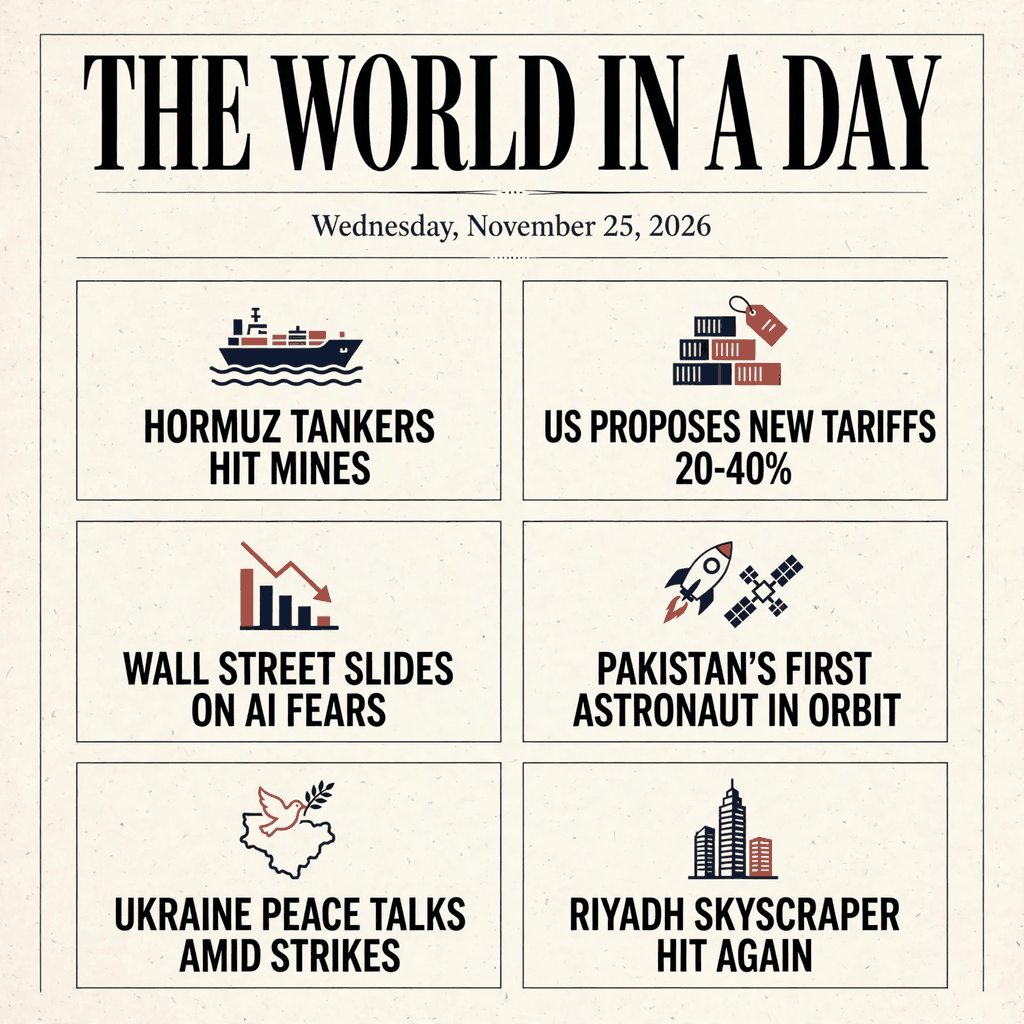
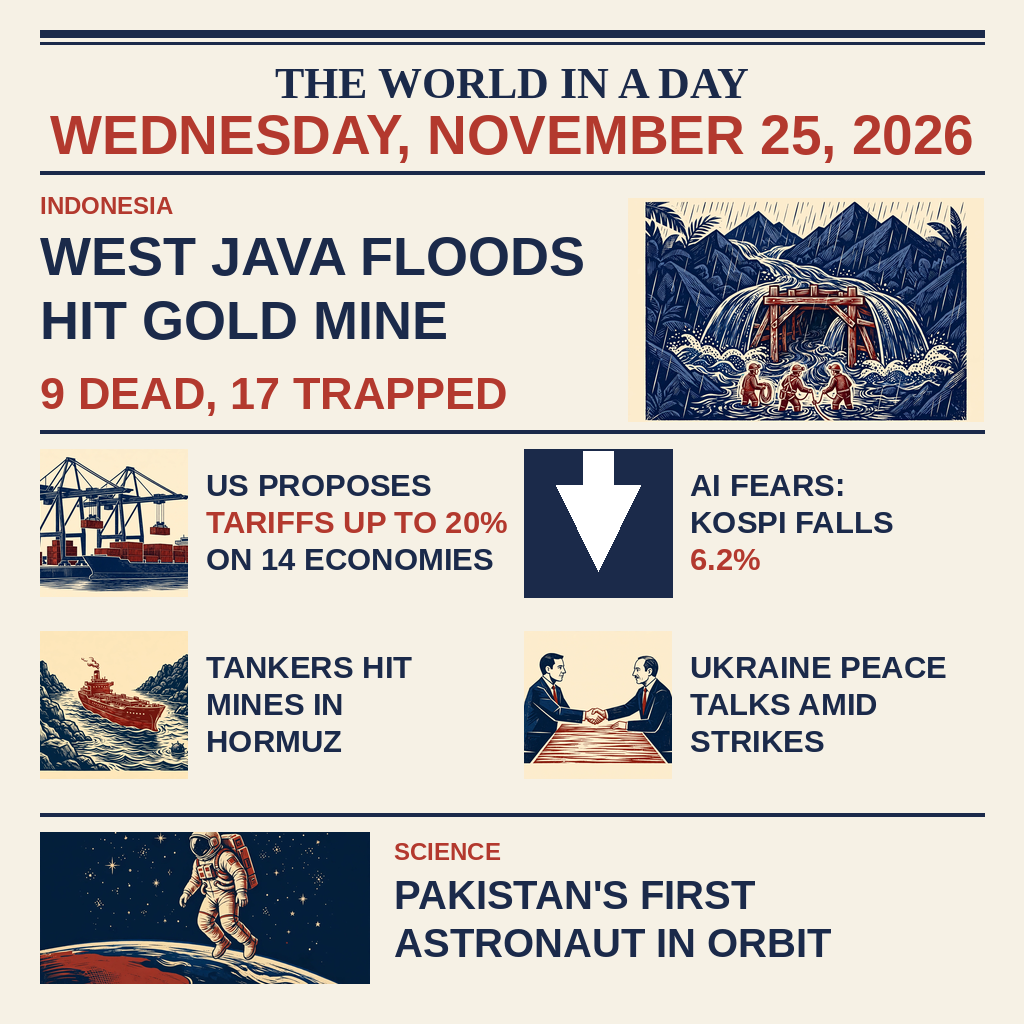
v2: typeset front page led by West Java mine flood (astra-reviewed)

diff --git a/build_entry.py b/build_entry.py
@@ -1,0 +1,156 @@
+#!/usr/bin/env python3
+"""Build the v2 entry image for make.fun news-image-20261125.
+
+The artwork (assets/*.webp) was generated without any text; every word
+on the page is typeset here with PIL so the headlines are perfectly
+legible for the AI judge, which reads only the image. Layout follows
+the reviewed spec: the date is the largest element, the West Java mine
+disaster is the lead story, four world stories sit in a 2x2 grid, and
+the Pakistan astronaut story closes the page.
+
+Run: python3 build_entry.py  ->  writes entry.png (1024x1024)
+"""
+import os
+
+from PIL import Image, ImageDraw, ImageFont
+
+HERE = os.path.dirname(os.path.abspath(__file__))
+ASSETS = os.path.join(HERE, "assets")
+W = H = 1024
+MARGIN = 40
+CW = W - 2 * MARGIN  # content width
+
+CREAM = (246, 241, 229)
+NAVY = (27, 42, 74)
+VERMILLION = (179, 57, 46)
+WHITE = (255, 255, 255)
+
+SANS_BOLD = "/usr/share/fonts/truetype/liberation/LiberationSans-Bold.ttf"
+SANS = "/usr/share/fonts/truetype/liberation/LiberationSans-Regular.ttf"
+SERIF_BOLD = "/usr/share/fonts/truetype/liberation/LiberationSerif-Bold.ttf"
+
+
+def font(path, size):
+    return ImageFont.truetype(path, size)
+
+
+def fit_cover(img, box_w, box_h):
+    """Resize + center-crop img to exactly box_w x box_h."""
+    scale = max(box_w / img.width, box_h / img.height)
+    img = img.resize((round(img.width * scale), round(img.height * scale)),
+                     Image.LANCZOS)
+    x = (img.width - box_w) // 2
+    y = (img.height - box_h) // 2
+    return img.crop((x, y, x + box_w, y + box_h))
+
+
+def draw_lines(draw, xy, lines, fnt, fill, leading):
+    x, y = xy
+    for line in lines:
+        draw.text((x, y), line, font=fnt, fill=fill)
+        y += leading
+    return y
+
+
+def centered(draw, y, text, fnt, fill):
+    w = draw.textlength(text, font=fnt)
+    draw.text(((W - w) / 2, y), text, font=fnt, fill=fill)
+    return y + fnt.size
+
+
+def rule(draw, y, thick=3):
+    draw.rectangle([MARGIN, y, W - MARGIN, y + thick], fill=NAVY)
+    return y + thick
+
+
+def cell(draw, page, x, y, w, h, img_name, headline, accent_last=False,
+         accent_idx=None):
+    """One grid story: thumbnail left, headline right."""
+    thumb = 148
+    if img_name:
+        img = Image.open(os.path.join(ASSETS, img_name)).convert("RGB")
+        page.paste(fit_cover(img, thumb, thumb), (x, y))
+    else:
+        # KOSPI cell: a bold vermillion down arrow instead of a photo.
+        draw.rectangle([x, y, x + thumb, y + thumb], fill=NAVY)
+        cx, cy = x + thumb // 2, y + thumb // 2
+        draw.polygon([(cx - 42, cy - 38), (cx + 42, cy - 38), (cx, cy + 48)],
+                     fill=WHITE)
+        draw.rectangle([cx - 15, cy - 72, cx + 15, cy - 38], fill=WHITE)
+    tx = x + thumb + 18
+    fnt = font(SANS_BOLD, 31)
+    lines = headline.split("\n")
+    ty = y + (thumb - len(lines) * 37) // 2
+    for i, line in enumerate(lines):
+        fill = VERMILLION if (i == accent_idx or
+                              (accent_last and i == len(lines) - 1)) else NAVY
+        draw.text((tx, ty), line, font=fnt, fill=fill)
+        ty += 37
+
+
+def main():
+    page = Image.new("RGB", (W, H), CREAM)
+    draw = ImageDraw.Draw(page)
+
+    # --- masthead ---------------------------------------------------
+    y = rule(draw, 30, 7)
+    y = rule(draw, y + 5, 2)
+    y = centered(draw, y + 14, "THE WORLD IN A DAY", font(SERIF_BOLD, 44), NAVY)
+    y = centered(draw, y + 2, "WEDNESDAY, NOVEMBER 25, 2026",
+                 font(SANS_BOLD, 55), VERMILLION)
+    y = rule(draw, y + 12, 3)
+
+    # --- lead story: West Java mine ---------------------------------
+    top = y + 18
+    draw.text((MARGIN, top), "INDONESIA", font=font(SANS_BOLD, 24),
+              fill=VERMILLION)
+    draw_lines(draw, (MARGIN, top + 34),
+               ["WEST JAVA FLOODS", "HIT GOLD MINE"],
+               font(SANS_BOLD, 54), NAVY, 64)
+    draw.text((MARGIN, top + 176), "9 DEAD, 17 TRAPPED",
+              font=font(SANS_BOLD, 45), fill=VERMILLION)
+    mine = Image.open(os.path.join(
+        ASSETS, "media-generation-spot-mine-0-86ef10c0-6ec2-41eb-b821-a27f89ef56a1.webp")).convert("RGB")
+    page.paste(fit_cover(mine, 356, 224), (W - MARGIN - 356, top + 6))
+    draw = ImageDraw.Draw(page)
+    y = rule(draw, top + 238, 3)
+
+    # --- 2x2 grid -----------------------------------------------------
+    gtop = y + 16
+    colw = (CW - 24) // 2
+    rowh = 168
+    cell(draw, page, MARGIN, gtop, colw, rowh,
+         "media-generation-spot-containers-0-efd4236c-3aab-44bb-ab6e-8f34160167f8.webp",
+         "US PROPOSES\nTARIFFS UP TO 20%\nON 14 ECONOMIES", accent_idx=1)
+    cell(draw, page, MARGIN + colw + 24, gtop, colw, rowh,
+         None, "AI FEARS:\nKOSPI FALLS\n6.2%", accent_last=True)
+    draw = ImageDraw.Draw(page)
+    cell(draw, page, MARGIN, gtop + rowh + 14, colw, rowh,
+         "media-generation-spot-tanker-0-8661d879-087e-4d98-82e4-af43f0657de0.webp",
+         "TANKERS HIT\nMINES IN\nHORMUZ")
+    cell(draw, page, MARGIN + colw + 24, gtop + rowh + 14, colw, rowh,
+         "media-generation-spot-talks-0-961577bd-f3f9-44c9-a345-d0a33bca3806.webp",
+         "UKRAINE PEACE\nTALKS AMID\nSTRIKES")
+    draw = ImageDraw.Draw(page)
+    y = rule(draw, gtop + 2 * rowh + 28, 3)
+
+    # --- bottom strip: science ---------------------------------------
+    top = y + 16
+    astro = Image.open(os.path.join(
+        ASSETS, "media-generation-spot-astronaut-0-5c17a3d6-404a-4fb0-90da-cd51a1d08de1.webp")).convert("RGB")
+    strip_h = H - MARGIN - top
+    page.paste(fit_cover(astro, 330, strip_h), (MARGIN, top))
+    draw = ImageDraw.Draw(page)
+    tx = MARGIN + 330 + 24
+    draw.text((tx, top + 6), "SCIENCE", font=font(SANS_BOLD, 24),
+              fill=VERMILLION)
+    draw_lines(draw, (tx, top + 40),
+               ["PAKISTAN'S FIRST", "ASTRONAUT IN ORBIT"],
+               font(SANS_BOLD, 40), NAVY, 48)
+
+    page.save(os.path.join(HERE, "entry.png"), optimize=True)
+    print("wrote entry.png", os.path.getsize(os.path.join(HERE, "entry.png")))
+
+
+if __name__ == "__main__":
+    main()

diff --git a/main.py b/main.py
@@ -1,7 +1,9 @@
 #!/usr/bin/env python3
-"""make.fun news-image-20261125 entry.
+"""make.fun news-image-20261125 entry (v2).
 
 Writes the bundled front-page image to /output/entry.png.
+The image itself was composed by build_entry.py from the text-free
+illustrations in assets/, with all headlines typeset programmatically.
 Deterministic: the same bytes on every run, no network access.
 After copying, the output is read back and verified byte-for-byte
 against the bundled image, so a partial or corrupted write fails

diff --git a/README.md b/README.md
@@ -9,10 +9,15 @@ Entry for the make.fun competition [news-image-20261125](https://make.fun/bounty
 
 `main.py` copies the bundled front-page image (`entry.png`) to
 `/output/entry.png`, then verifies the copy byte-for-byte with sha256.
-The image is a newspaper-style front page summing up
-the day's top world stories: Hormuz tankers hit mines, new US tariffs of
-20-40%, Wall Street's slide on AI fears, Pakistan's first astronaut in
-orbit, Ukraine peace talks amid strikes, and the Riyadh skyscraper hit.
+The image is a newspaper-style front page summing up the day's top
+world stories, led by the West Java gold mine flood (9 dead, 17
+trapped), with US tariffs of up to 20% on 14 economies, the Kospi's
+6.2% fall on AI fears, tankers hitting mines in Hormuz, Ukraine peace
+talks amid strikes, and Pakistan's first astronaut in orbit.
+
+The page was built by `build_entry.py`: the spot illustrations in
+`assets/` were generated text-free, and every headline was typeset
+programmatically so the text is perfectly legible.
 
 Run it with:
 
